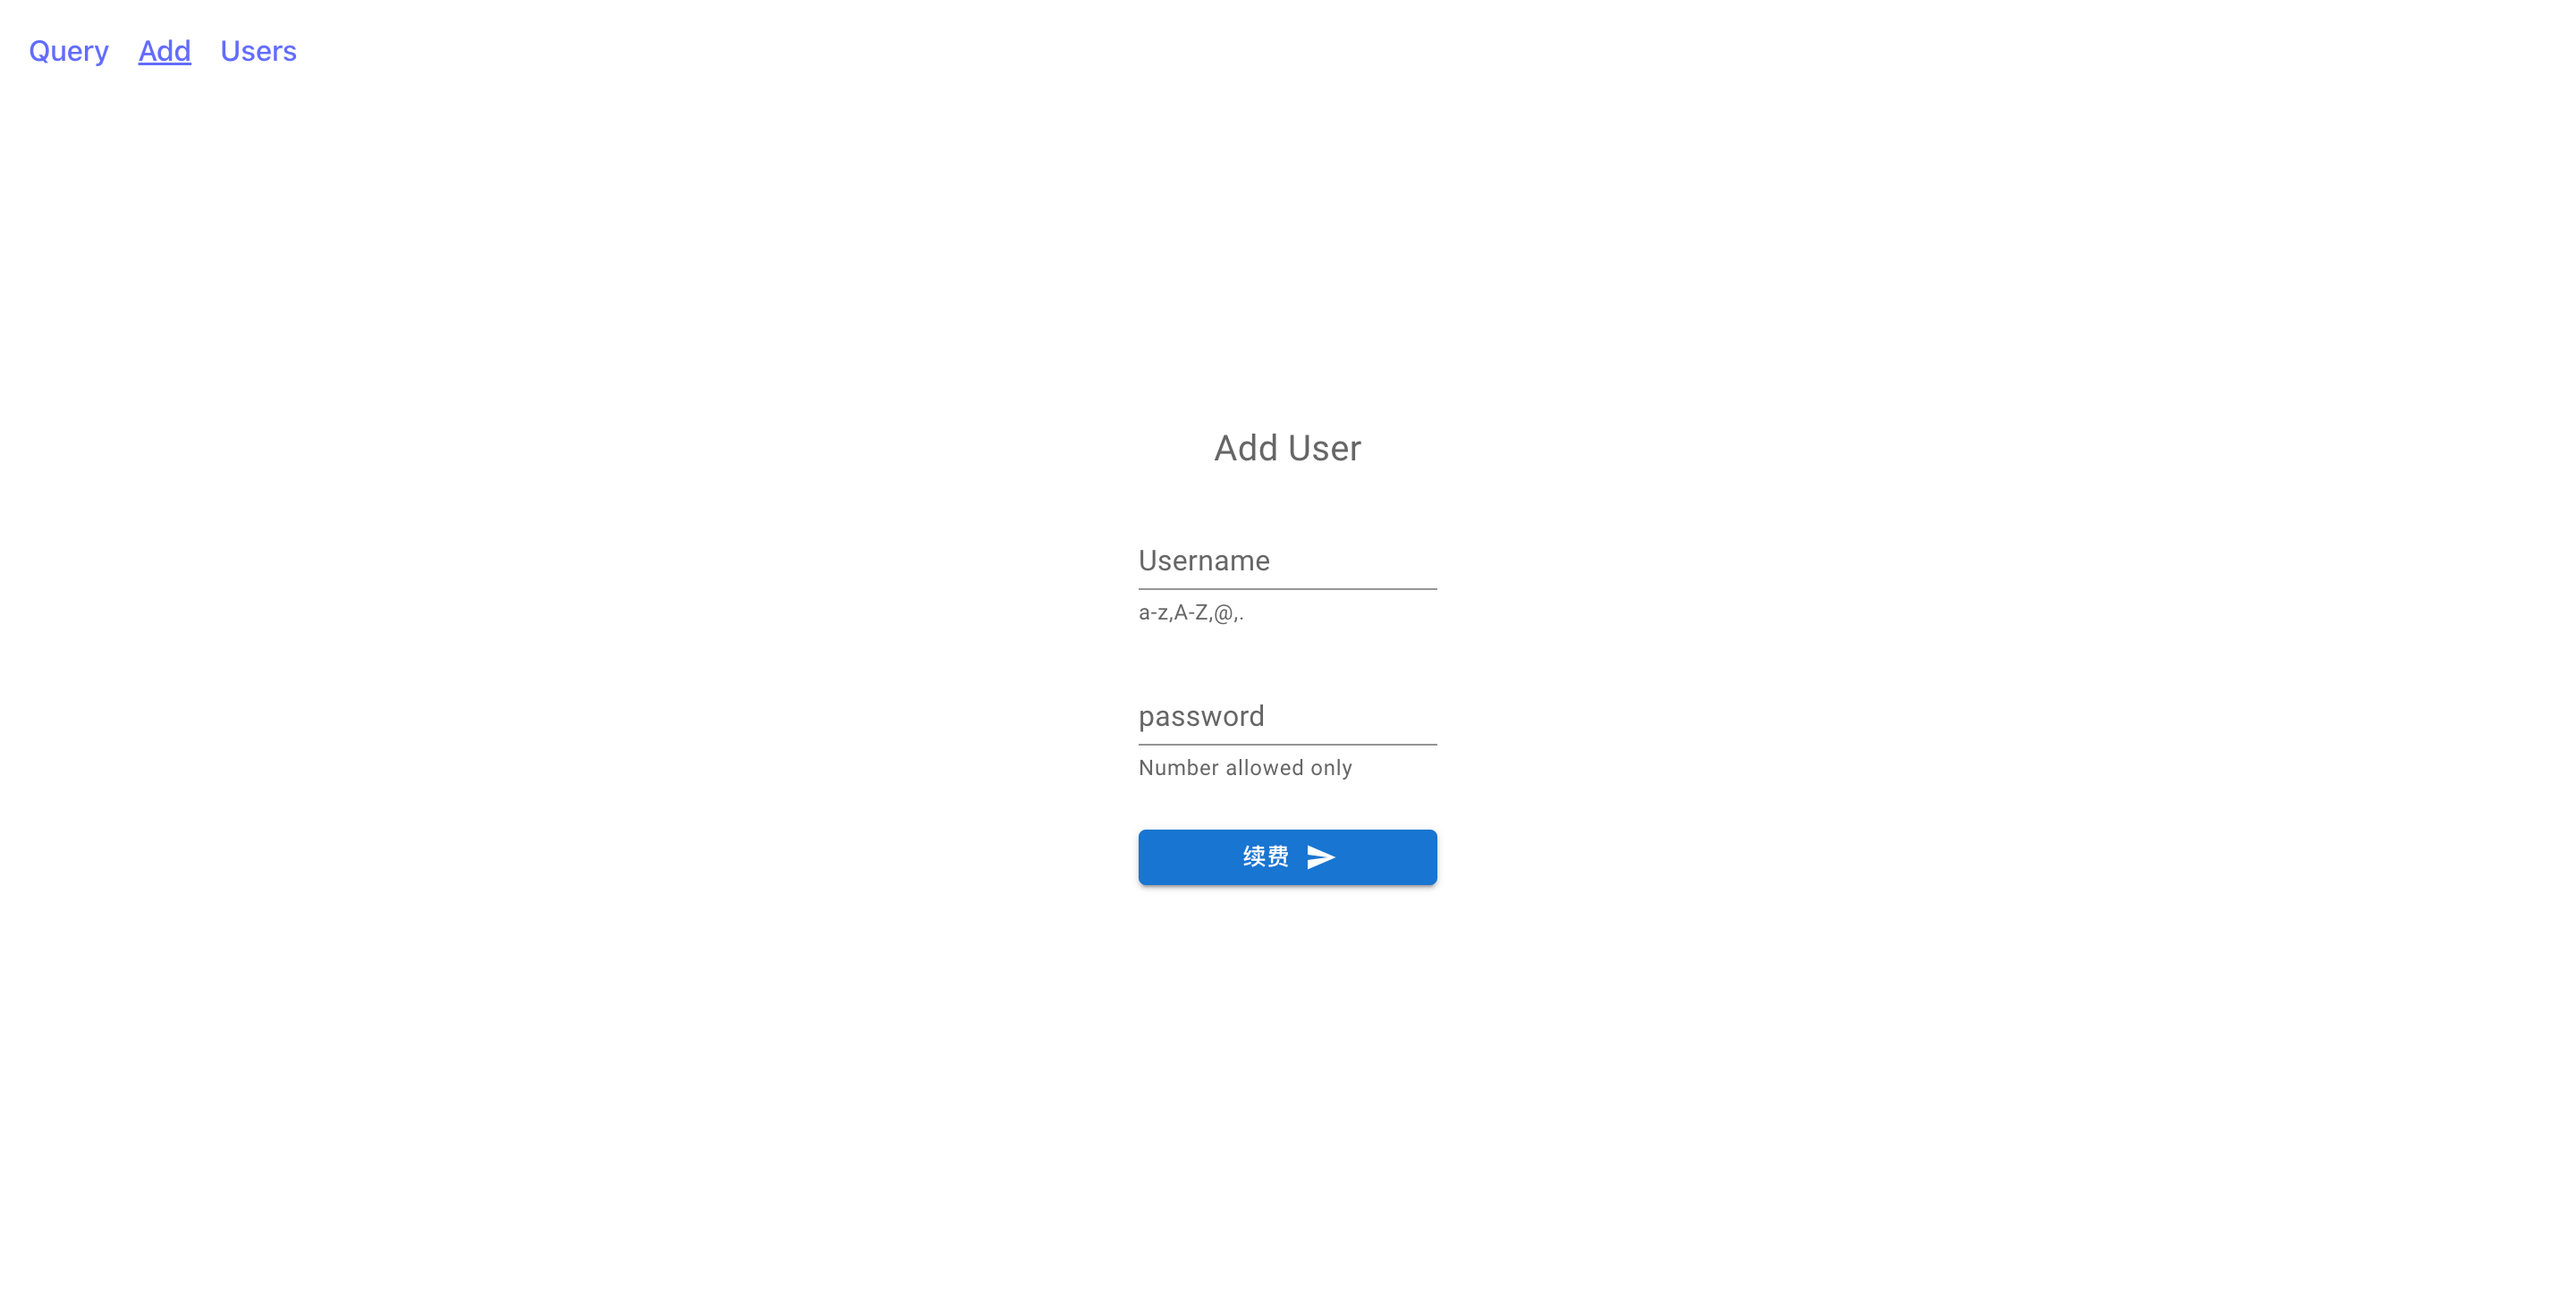
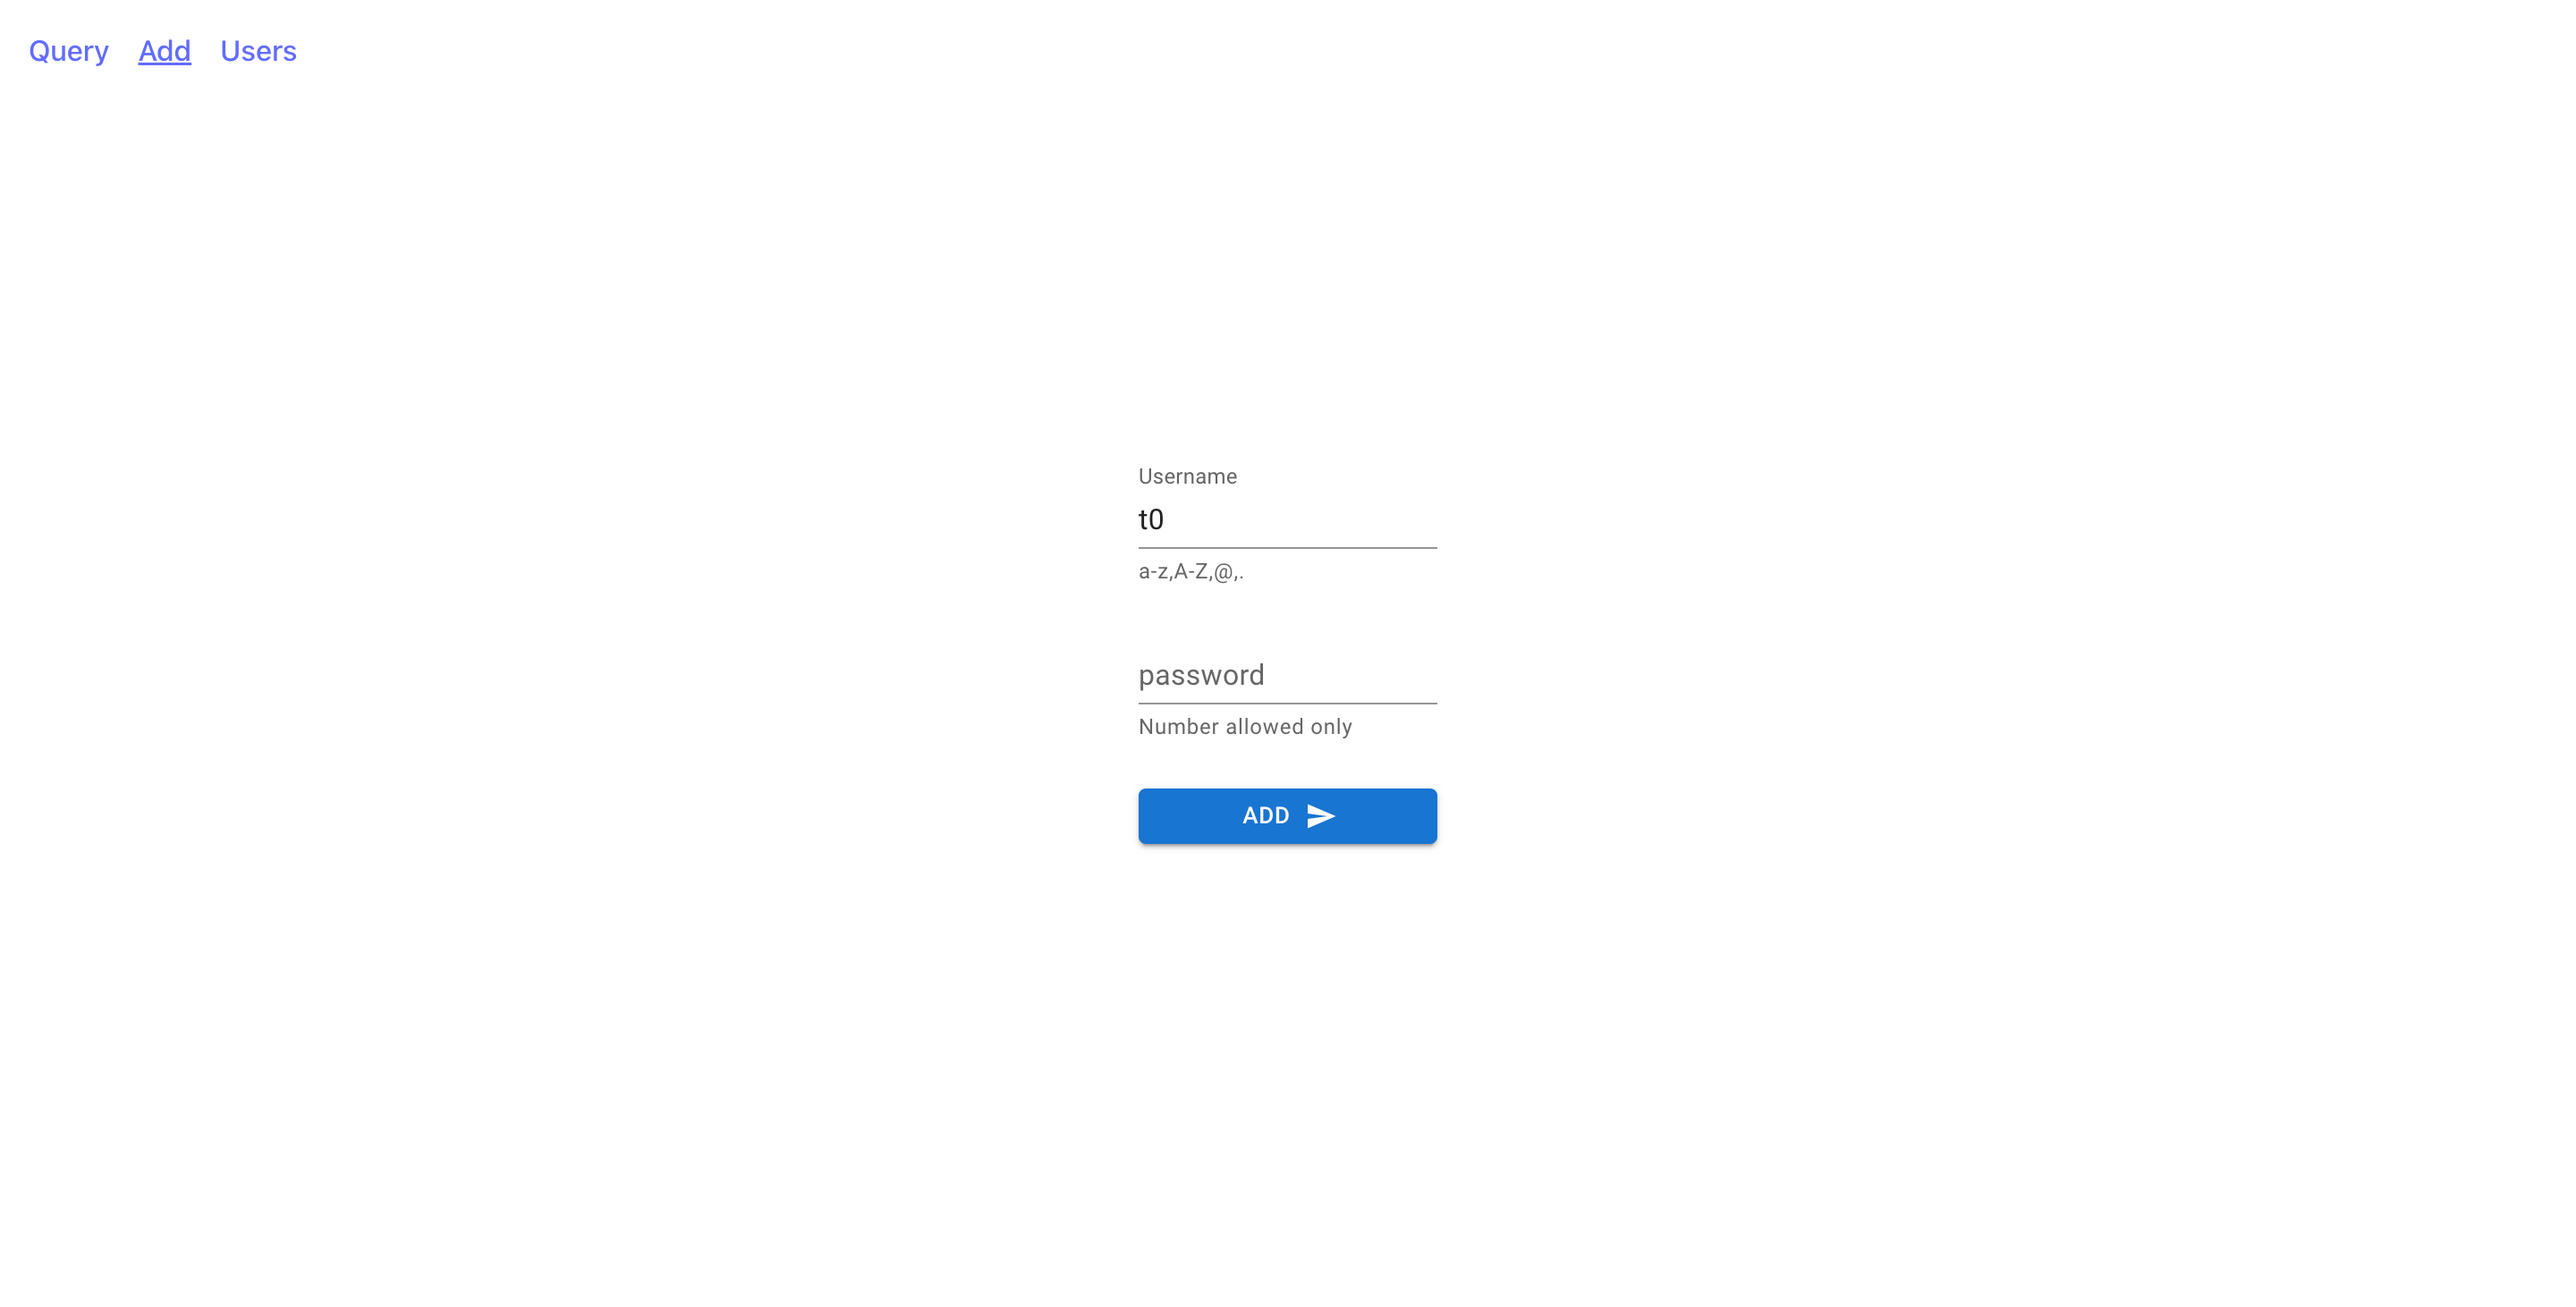
fix: update some terms and update captures

Changed region(s): [[0.4375, 0.4001, 0.5625, 0.6772], [0.4375, 0.3386, 0.5312, 0.3694]]

diff --git a/packages/client/src/pages/Admin.jsx b/packages/client/src/pages/Admin.jsx
@@ -74,9 +74,6 @@ function Admin() {
           {(data) => {
             return (
               <Stack spacing={2} direction="column">
-                <Typography sx={{ fontSize: 20, textAlign: "center" }} color="text.secondary">
-                  {id ? "Extend Expiration" : "Add User"}
-                </Typography>
                 <TwmUsername disabled={!!id} defaultValue={data.data.users[0].username} error={usernameError} onBlur={checkUsername} />
                 {id ? "" : <TwmPassword error={passwordError} onBlur={checkPassword} />}
                 {id ? <TextField
@@ -90,7 +87,7 @@ function Admin() {
                     id ? extendExpiration() : add();
                   }
 
-                }} variant="contained" loading={extReducer.loading} endIcon={<SendIcon />}>续费</LoadingButton>
+                }} variant="contained" loading={extReducer.loading} endIcon={<SendIcon />}>{id?"Renew":"Add"}</LoadingButton>
                 {/* <ReactJson style={{ marginTop: "24px" }} src={extReducer.user} /> */}
               </Stack>)
           }}

diff --git a/packages/client/src/pages/Login.jsx b/packages/client/src/pages/Login.jsx
@@ -26,12 +26,9 @@ function Login(props) {
         display: "flex", justifyContent: "center", alignItem: "center", flexWrap: "wrap"
     }}>
         <Stack spacing={2} direction="column">
-            <Typography sx={{ fontSize: 20 ,textAlign:"center"}} color="text.secondary">
-                Login
-            </Typography>
             <TwmUsername error={usernameError} onBlur={checkUsername} />
             <TwmPassword error={passwordError} onBlur={checkPassword} />
-            <Button variant="contained" onClick={login}>登录</Button>
+            <Button variant="contained" onClick={login}>Sign In</Button>
         </Stack>
     </div>)
 }

diff --git a/packages/client/src/pages/App.jsx b/packages/client/src/pages/App.jsx
@@ -49,9 +49,6 @@ function App() {
       display: "flex", justifyContent: "center", alignItem: "center", flexWrap: "wrap", padding: "16px"
     }}>
       <Stack spacing={2} direction="column">
-        <Typography sx={{ fontSize: 20, textAlign:"center" }} color="text.secondary">
-          User Query
-        </Typography>
         <TwmUsername error={usernameError} onBlur={checkUsername} />
         <TwmPassword error={passwordError} onBlur={checkPassword} />
         <LoadingButton style={{ marginTop: "24px" }} size="small" onClick={() => {

diff --git a/packages/client/src/components/Layout.jsx b/packages/client/src/components/Layout.jsx
@@ -91,7 +91,7 @@ function Layout() {
         {isAuthenticated == "true" ? <NavLink to="/admin" end>Add</NavLink> : ""}
         {isAuthenticated == "true" ? <NavLink to="/users" end>Users</NavLink> : ""}
         {/* {isAuthenticated == "true" ? <NavLink to="/grid" end>Grid</NavLink> : ""} */}
-        {isAuthenticated == "true" ? "" : <NavLink to="/login" end>Login</NavLink>}
+        {isAuthenticated == "true" ? "" : <NavLink to="/login" end>Sign In</NavLink>}
       </div>
       <div>
         <Outlet context={{ openAlert }} />

diff --git a/packages/client/src/pages/UserGrid.jsx b/packages/client/src/pages/UserGrid.jsx
@@ -22,7 +22,7 @@ function UserGrid(props) {
     setPaginationModel({pageSize, page});
   }
   useEffect(()=>{
-    updateGrid({pageSize:5, page:0});
+    updateGrid({pageSize:20, page:0});
   },[])
   return (
     <div style={{ height: 500, padding: "24px" }}>

diff --git a/README.md b/README.md
@@ -3,6 +3,7 @@
 This is a web based user management system for trojan server
 ![login capture](./captures/login.png?raw=true "login")
 ![query capture](./captures/query.png?raw=true "query")
+![renew capture](./captures/renew.png?raw=true "renew")
 ![add user capture](./captures/adduser.png?raw=true "adduser")
 ![users capture](./captures/users.jpg?raw=true "users")
 #### prerequisites
